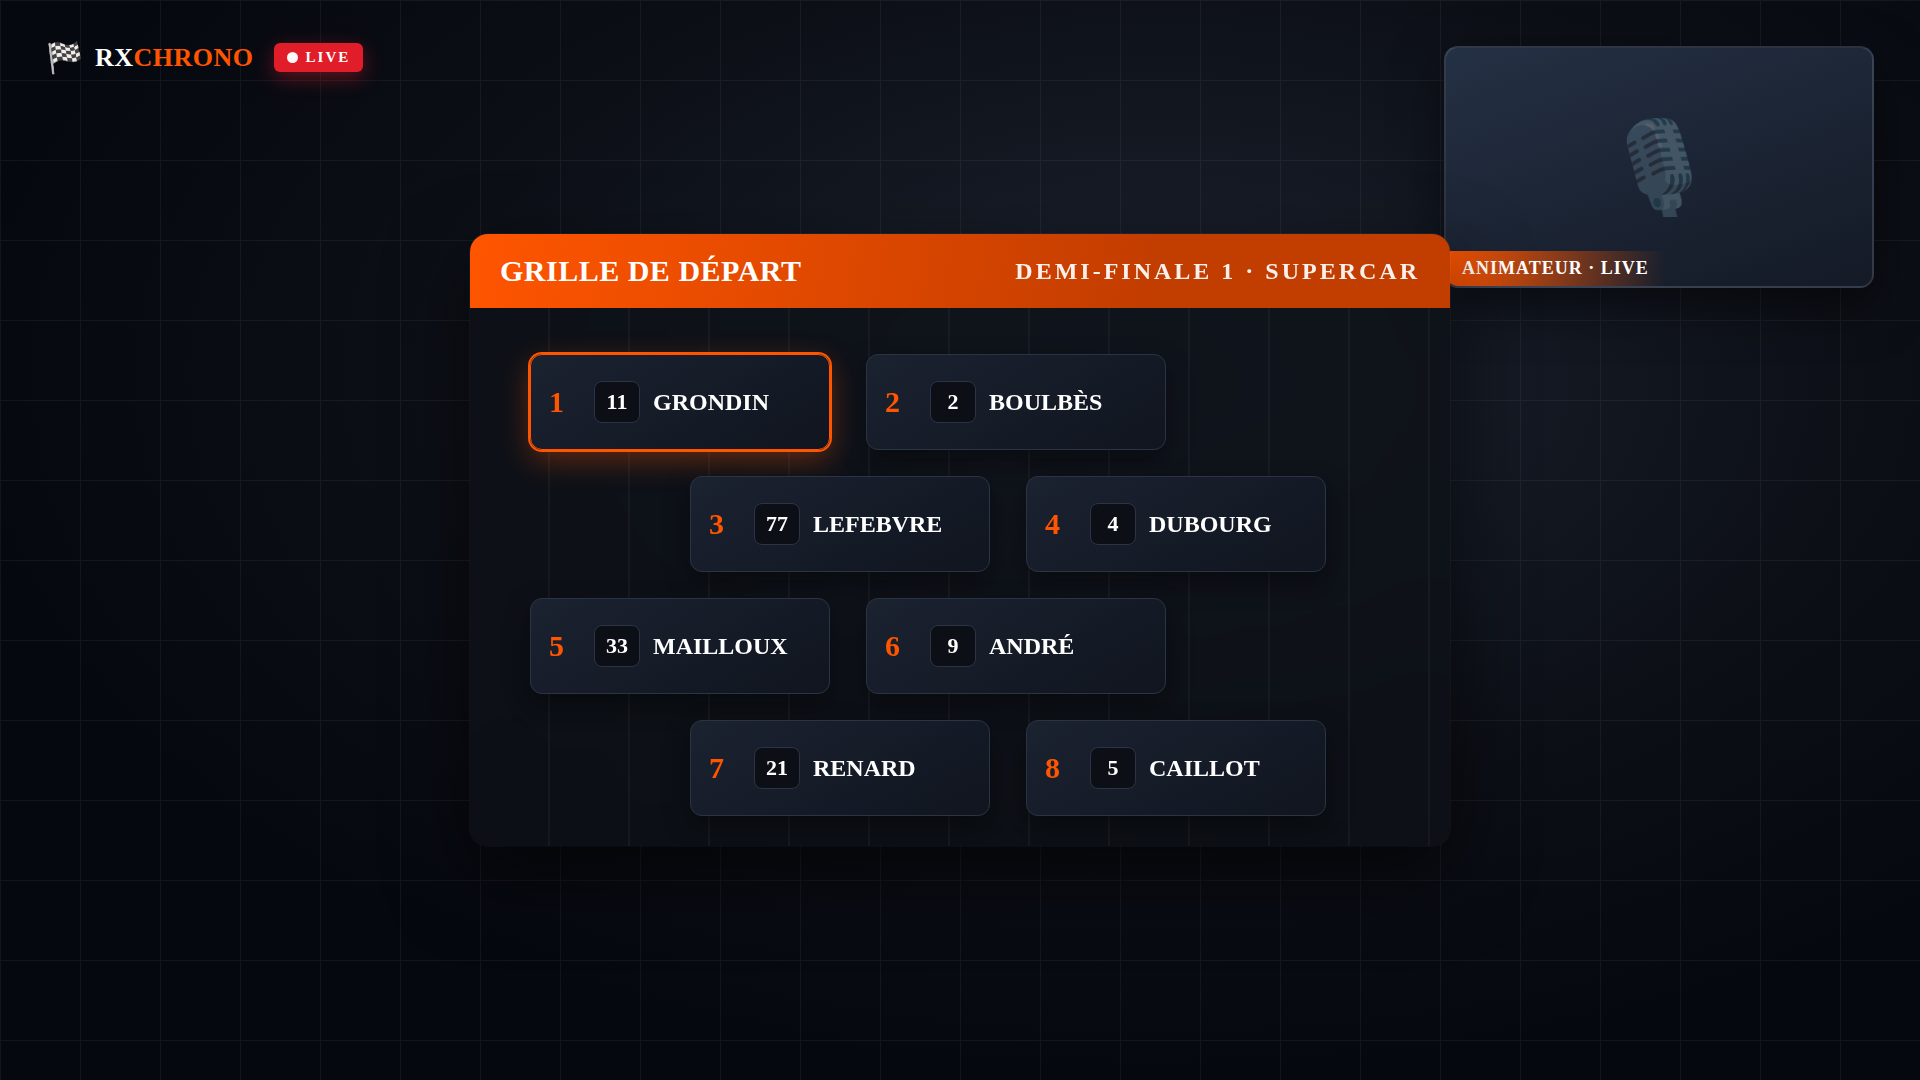
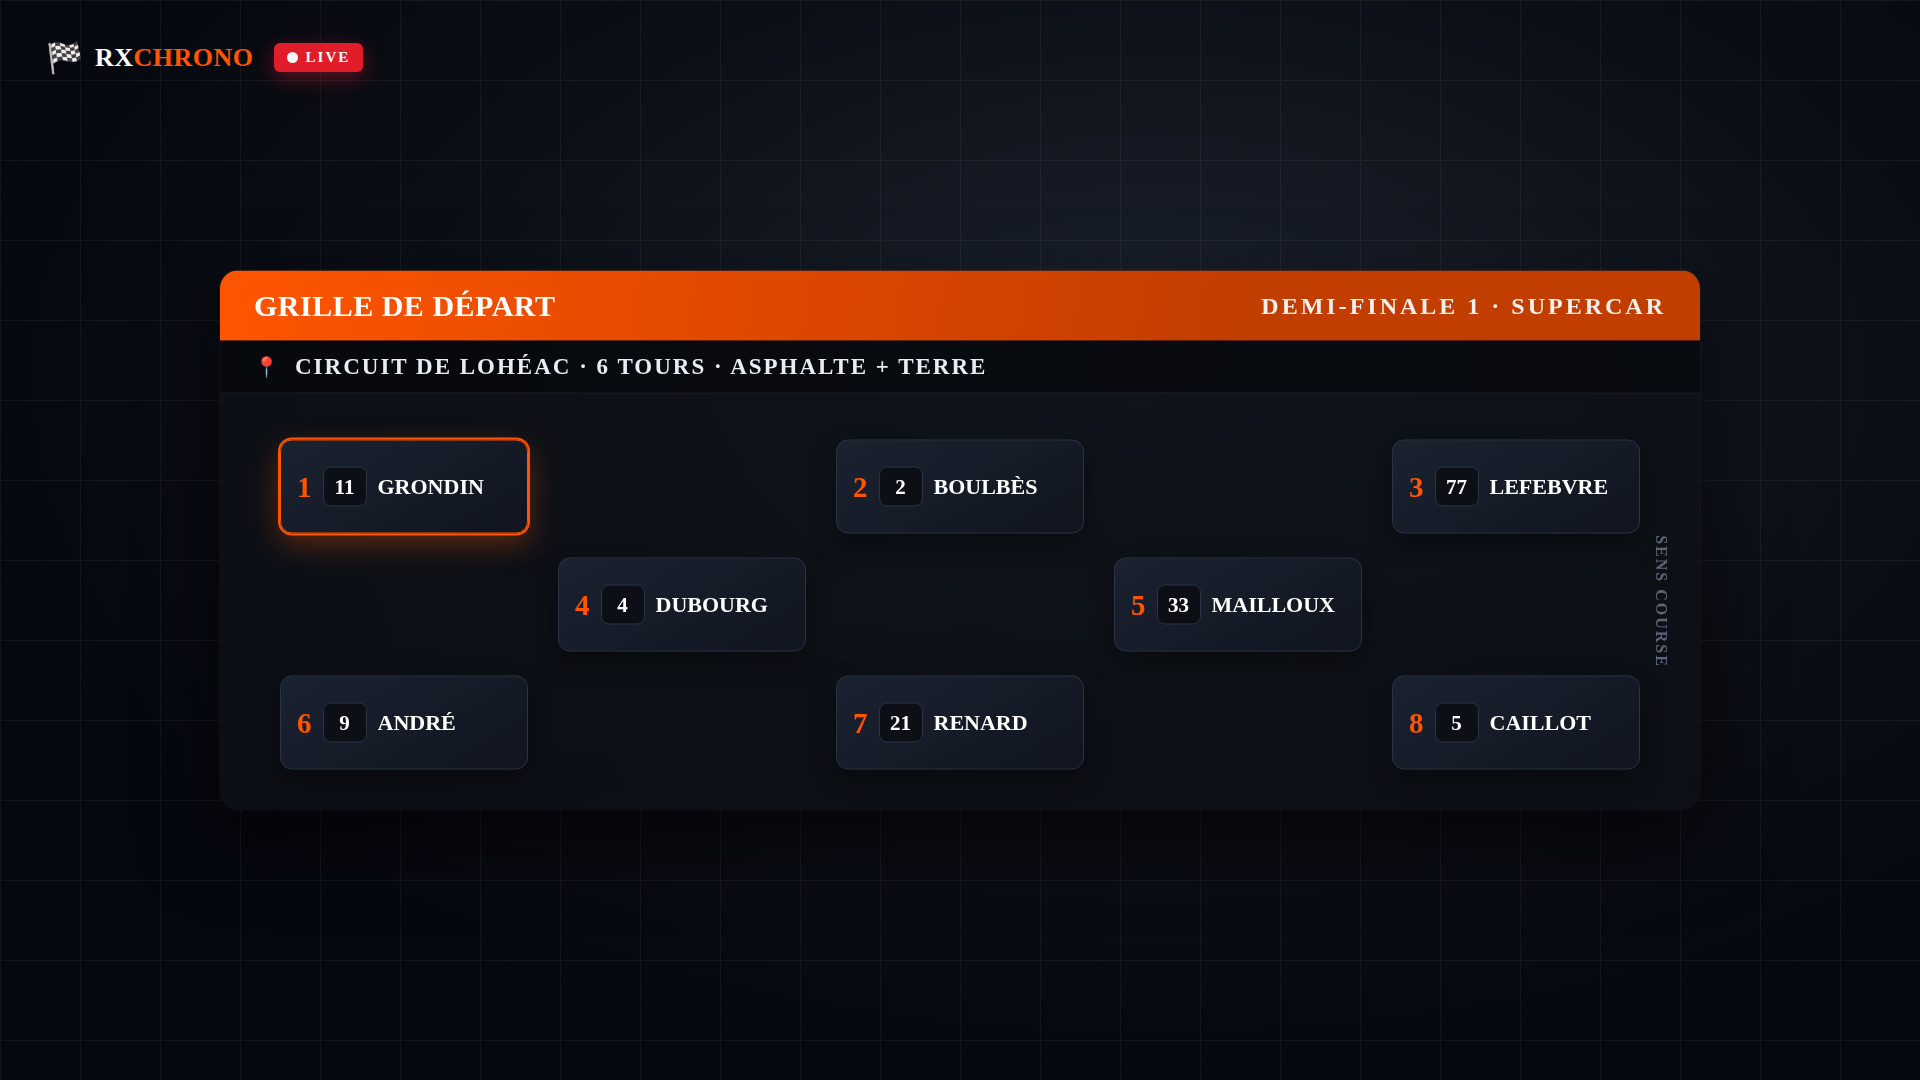
Overlays: dashboard plein data + grille fidèle au règlement + en-tête éditable
- Nouvelle scène "dashboard" plein écran sans webcam : manche en cours
  (peloton complet + écarts + meilleur tour) à gauche, classement
  intermédiaire et championnat à droite. Pensé pour afficher un maximum
  de données qui s'actualisent.
- Grille de départ : rendu fidèle de la matrice du règlement
  (championship.sessionConfig[type].gridLayout : couloirs x rangs, quinconce).
- Bandeau texte d'en-tête éditable (infos circuit) destiné à être piloté
  via /control.
- Suppression de la webcam des maquettes (priorité aux données).

Claude-Session: https://claude.ai/code/session_014SMM8bCWUptTvMGxasXwe8

diff --git a/overlay/demo/showcase.html b/overlay/demo/showcase.html
@@ -102,30 +102,36 @@
     font-size:17px;letter-spacing:1px;color:#aeb8c6;text-transform:uppercase}
   .panel .foot .bl{color:var(--purple);font-weight:700}
 
-  /* ============ GRILLE DE DÉPART ============ */
+  /* ============ GRILLE DE DÉPART (matrice du règlement) ============ */
   .grid-wrap{position:absolute;left:50%;top:50%;transform:translate(-50%,-50%);
-    width:980px;background:var(--panel);backdrop-filter:blur(14px);border-radius:18px;
+    width:auto;max-width:1640px;min-width:1000px;
+    background:var(--panel);backdrop-filter:blur(14px);border-radius:18px;
     box-shadow:0 30px 80px rgba(0,0,0,.6),0 0 0 1px rgba(255,255,255,.05);overflow:hidden}
-  .grid-wrap .head{padding:22px 30px;background:linear-gradient(100deg,var(--orange),#c23d00 70%);
+  .grid-wrap .head{padding:20px 34px;background:linear-gradient(100deg,var(--orange),#c23d00 70%);
     display:flex;align-items:center;gap:16px}
   .grid-wrap .head .h-cat{font-family:'Orbitron';font-weight:900;font-size:30px;text-transform:uppercase}
   .grid-wrap .head .h-sub{margin-left:auto;font-family:'Barlow Condensed';font-weight:600;
     font-size:24px;letter-spacing:3px;text-transform:uppercase}
-  .track{padding:46px 60px 30px;position:relative}
-  .track .line{position:absolute;left:0;right:0;height:100%;top:0;
-    background:repeating-linear-gradient(90deg,transparent 0 78px,rgba(255,255,255,.04) 78px 80px)}
-  .grid-rows{display:flex;flex-direction:column;gap:26px;position:relative}
-  .g-row{display:flex;gap:36px}
-  .g-row.offset{margin-left:160px}
-  .car{width:300px;height:96px;border-radius:12px;background:linear-gradient(150deg,#1b2230,#10151f);
-    border:1px solid #2b3445;display:flex;align-items:center;gap:13px;padding:0 18px;position:relative;
+  /* bandeau texte ÉDITABLE via /control (infos circuit, etc.) */
+  .grid-info{display:flex;align-items:center;gap:14px;padding:13px 34px;background:rgba(0,0,0,.4);
+    border-bottom:1px solid var(--line);font-family:'Barlow Condensed';font-weight:600;
+    font-size:23px;letter-spacing:2px;text-transform:uppercase;color:#e7edf5}
+  .grid-info .pin{color:var(--orange);font-size:20px}
+  .track{padding:46px 60px 40px;position:relative}
+  .track .dir{position:absolute;right:30px;top:50%;transform:translateY(-50%) rotate(0deg);
+    font-family:'Orbitron';font-weight:800;font-size:16px;color:#5b6678;letter-spacing:2px;
+    writing-mode:vertical-rl}
+  .grid-matrix{display:grid;gap:24px 30px;justify-content:center;position:relative}
+  .car{height:94px;border-radius:12px;background:linear-gradient(150deg,#1b2230,#10151f);
+    border:1px solid #2b3445;display:flex;align-items:center;gap:11px;padding:0 16px;position:relative;
     box-shadow:0 10px 26px rgba(0,0,0,.4)}
-  .car .gp{font-family:'Orbitron';font-weight:800;font-size:30px;color:var(--orange);width:32px;flex:none}
-  .car .gn{display:inline-flex;align-items:center;justify-content:center;min-width:46px;height:42px;
-    padding:0 8px;border-radius:8px;background:#0c0f16;border:1px solid #2b3445;flex:none;
-    font-family:'Orbitron';font-weight:700;font-size:22px}
-  .car .gl{flex:1;min-width:0;font-family:'Barlow Condensed';font-weight:600;font-size:24px;
+  .car .gp{font-family:'Orbitron';font-weight:800;font-size:29px;color:var(--orange);flex:none}
+  .car .gn{display:inline-flex;align-items:center;justify-content:center;min-width:44px;height:40px;
+    padding:0 7px;border-radius:8px;background:#0c0f16;border:1px solid #2b3445;flex:none;
+    font-family:'Orbitron';font-weight:700;font-size:21px}
+  .car .gl{flex:1;min-width:0;font-family:'Barlow Condensed';font-weight:600;font-size:22px;
     text-transform:uppercase;line-height:1;white-space:nowrap;overflow:hidden;text-overflow:ellipsis}
+  .car.p1{border-color:var(--orange);box-shadow:0 0 0 2px var(--orange),0 10px 30px rgba(255,85,0,.35)}
   .car.p1{border-color:var(--orange);box-shadow:0 0 0 2px var(--orange),0 10px 30px rgba(255,85,0,.35)}
 
   /* ============ NEXT HEAT (bandeau bas) ============ */
@@ -166,6 +172,36 @@
     font-size:26px;letter-spacing:3px;color:#8b95a4}
   .inter .social b{color:#fff}
 
+  /* ============ DASHBOARD PLEIN ÉCRAN (max data, sans webcam) ============ */
+  .dash{position:absolute;inset:0;display:flex;flex-direction:column;background:linear-gradient(180deg,#0a0c11,#07090e)}
+  .dash-top{display:flex;align-items:center;gap:20px;height:92px;padding:0 40px;
+    background:linear-gradient(100deg,#141a24,#0a0c11);border-bottom:3px solid var(--orange)}
+  .dash-top .brand{font-family:'Orbitron';font-weight:900;font-size:30px;letter-spacing:.5px}
+  .dash-top .brand b{color:var(--orange)}
+  .dash-top .sep{width:2px;height:42px;background:var(--line)}
+  .dash-top .info{font-family:'Barlow Condensed';font-weight:600;font-size:27px;letter-spacing:2px;
+    text-transform:uppercase;color:#dbe3ee;display:flex;align-items:center;gap:13px}
+  .dash-top .info .pin{color:var(--orange);font-size:23px}
+  .dash-top .live{margin-left:auto;display:flex;align-items:center;gap:9px;background:#e11d2a;
+    padding:8px 15px;border-radius:7px;font-family:'Orbitron';font-weight:800;font-size:16px;letter-spacing:2px}
+  .dash-top .live .d{width:11px;height:11px;border-radius:50%;background:#fff;animation:blink 1.2s infinite}
+  .dash-body{flex:1;display:grid;grid-template-columns:1.22fr 1fr;gap:24px;padding:24px 40px 32px;min-height:0}
+  .dright{display:flex;flex-direction:column;gap:24px;min-height:0}
+  .dpanel{background:var(--panel);backdrop-filter:blur(14px);border-radius:14px;overflow:hidden;
+    box-shadow:0 0 0 1px rgba(255,255,255,.06);display:flex;flex-direction:column;min-height:0}
+  .dpanel .dhead{display:flex;align-items:center;gap:12px;padding:13px 22px;
+    background:linear-gradient(100deg,var(--orange),#c23d00 78%);
+    font-family:'Orbitron';font-weight:800;font-size:21px;letter-spacing:.5px;text-transform:uppercase}
+  .dpanel .dhead .d{width:10px;height:10px;border-radius:50%;background:#fff;animation:blink 1.2s infinite}
+  .dpanel .dhead .sub{margin-left:auto;font-family:'Barlow Condensed';font-weight:600;font-size:18px;
+    letter-spacing:2px;opacity:.95}
+  .dpanel .body{flex:1;overflow:hidden;display:flex;flex-direction:column}
+  .dash .row{height:auto;flex:1;min-height:0}
+  .dash .race .row{grid-template-columns:46px 64px 1fr 150px}
+  .dash .standings .row{grid-template-columns:46px 64px 1fr 92px}
+  .dash .standings .row .val{color:var(--gold)}
+  .dash .standings .row .val small{font-family:'Barlow Condensed';font-weight:500;font-size:15px;color:#8b95a4;margin-left:3px}
+
   .scene{display:none}
   .scene.on{display:block}
 </style>
@@ -177,7 +213,6 @@
   <div class="backdrop">
     <div class="bd-grid"></div>
     <div class="bd-video"><div class="play">▶</div><div id="bdLabel">REPLAY / VIDÉO</div></div>
-    <div class="cam"><div class="face">🎙</div><div class="who">ANIMATEUR · LIVE</div></div>
   </div>
 
   <!-- BRAND BUG -->
@@ -211,11 +246,12 @@
     </div>
   </div>
 
-  <!-- SCÈNE : GRILLE DE DÉPART -->
+  <!-- SCÈNE : GRILLE DE DÉPART (matrice du règlement) -->
   <div class="scene" id="scene-grid">
     <div class="grid-wrap">
       <div class="head"><span class="h-cat">Grille de départ</span><span class="h-sub">Demi-finale 1 · Supercar</span></div>
-      <div class="track"><div class="line"></div><div class="grid-rows" id="gridRows"></div></div>
+      <div class="grid-info"><span class="pin">📍</span><span id="gridInfo">CIRCUIT DE LOHÉAC · 6 TOURS · ASPHALTE + TERRE</span></div>
+      <div class="track"><div class="dir">SENS COURSE</div><div class="grid-matrix" id="gridMatrix"></div></div>
     </div>
   </div>
 
@@ -225,6 +261,35 @@
       <div class="lower-inner">
         <div class="badge"><span class="k">À SUIVRE</span><span class="v">Série 3 · Super1600</span></div>
         <div class="list" id="nextList"></div>
+      </div>
+    </div>
+  </div>
+
+  <!-- SCÈNE : DASHBOARD PLEIN ÉCRAN (max data) -->
+  <div class="scene" id="scene-dash">
+    <div class="dash">
+      <div class="dash-top">
+        <span class="brand">RX<b>CHRONO</b></span>
+        <span class="sep"></span>
+        <!-- texte ÉDITABLE via /control -->
+        <span class="info"><span class="pin">📍</span><span id="dashInfo">CIRCUIT DE LOHÉAC · DEMI-FINALE 1 · ASPHALTE + TERRE</span></span>
+        <span class="live"><span class="d"></span>LIVE</span>
+      </div>
+      <div class="dash-body">
+        <div class="dpanel race">
+          <div class="dhead"><span class="d"></span>Manche en cours<span class="sub">Supercar · Manche 2</span></div>
+          <div class="body" id="dashRace"></div>
+        </div>
+        <div class="dright">
+          <div class="dpanel standings">
+            <div class="dhead">Classement intermédiaire<span class="sub">après M2</span></div>
+            <div class="body" id="dashInterim"></div>
+          </div>
+          <div class="dpanel standings">
+            <div class="dhead">Championnat<span class="sub">Supercar · 2026</span></div>
+            <div class="body" id="dashChamp"></div>
+          </div>
+        </div>
       </div>
     </div>
   </div>
@@ -263,12 +328,15 @@
     {pos:5, num:33, name:'Mailloux', pts:198},
     {pos:6, num:9,  name:'André',    pts:187},
   ];
-  const grid = [
-    {gp:1,num:11,name:'Grondin',lead:true},{gp:2,num:2,name:'Boulbès'},
-    {gp:3,num:77,name:'Lefebvre'},{gp:4,num:4,name:'Dubourg'},
-    {gp:5,num:33,name:'Mailloux'},{gp:6,num:9,name:'André'},
-    {gp:7,num:21,name:'Renard'},{gp:8,num:5,name:'Caillot'},
-  ];
+  // Grille = matrice EXACTE du règlement (championship.sessionConfig[type].gridLayout)
+  // positions['rang-couloir'] = place. Ici la DF par défaut : 3-2-3 en quinconce.
+  const gridLayout = { lanes:5, rows:3, positions:{
+    '0-0':1,'0-2':2,'0-4':3, '1-1':4,'1-3':5, '2-0':6,'2-2':7,'2-4':8 } };
+  // Occupants : place de grille -> pilote (issu des qualifs/standings)
+  const gridOcc = {
+    1:{num:11,name:'Grondin'}, 2:{num:2,name:'Boulbès'}, 3:{num:77,name:'Lefebvre'},
+    4:{num:4,name:'Dubourg'},  5:{num:33,name:'Mailloux'},6:{num:9,name:'André'},
+    7:{num:21,name:'Renard'},  8:{num:5,name:'Caillot'} };
   const next = [
     {num:14,name:'Morel',pp:'P1'},{num:8,name:'Picard',pp:'P2'},
     {num:23,name:'Fauvel',pp:'P3'},{num:6,name:'Lemoine',pp:'P4'},
@@ -287,28 +355,56 @@
     <span class="num">${r.num}</span>
     <span class="name">${r.name}</span>
     <span class="val">${r.pts}<small>pts</small></span></div>`;
-  const carCell = c => `<div class="car ${c.lead?'p1':''}">
-    <span class="gp">${c.gp}</span><span class="gn">${c.num}</span><span class="gl">${c.name}</span></div>`;
   const chip = c => `<div class="chip"><span class="n">${c.num}</span>
     <span class="nm">${c.name}</span><span class="pp">${c.pp}</span></div>`;
 
   document.getElementById('raceRows').innerHTML = race.map(raceRow).join('');
   document.getElementById('stRows').innerHTML   = champ.map(stRow).join('');
-  // grille staggered (2 par rangée, décalée)
-  let gh='';
-  for(let i=0;i<grid.length;i+=2){
-    const off = (i/2)%2===1 ? 'offset':'';
-    gh += `<div class="g-row ${off}">${carCell(grid[i])}${grid[i+1]?carCell(grid[i+1]):''}</div>`;
-  }
-  document.getElementById('gridRows').innerHTML = gh;
   document.getElementById('nextList').innerHTML = next.map(chip).join('');
 
+  // GRILLE : rendu fidèle de la matrice du règlement (couloirs x rangs)
+  const gm = document.getElementById('gridMatrix');
+  if (gm) {
+    gm.style.gridTemplateColumns = `repeat(${gridLayout.lanes}, 248px)`;
+    let cells = '';
+    for (let r = 0; r < gridLayout.rows; r++) {
+      for (let c = 0; c < gridLayout.lanes; c++) {
+        const p = gridLayout.positions[r + '-' + c];
+        if (p && gridOcc[p]) cells += `<div class="car ${p===1?'p1':''}" style="grid-column:${c+1};grid-row:${r+1}">
+          <span class="gp">${p}</span><span class="gn">${gridOcc[p].num}</span>
+          <span class="gl">${gridOcc[p].name}</span></div>`;
+      }
+    }
+    gm.innerHTML = cells;
+  }
+
+  // ---- DASHBOARD : données plus complètes (max data) ----
+  const raceFull = [
+    {pos:1,num:11,name:'Grondin',val:'0:41.892',lead:true},{pos:2,num:2,name:'Boulbès',val:'+0.512'},
+    {pos:3,num:77,name:'Lefebvre',val:'+0.880',best:true},{pos:4,num:4,name:'Dubourg',val:'+1.337'},
+    {pos:5,num:33,name:'Mailloux',val:'+2.011'},{pos:6,num:9,name:'André',val:'+2.654'},
+    {pos:7,num:21,name:'Renard',val:'+3.118'},{pos:8,num:5,name:'Caillot',val:'+3.540'},
+    {pos:9,num:14,name:'Morel',val:'+4.002'},{pos:10,num:8,name:'Picard',val:'+5.219'},
+  ];
+  const interim = [
+    {pos:1,num:11,name:'Grondin',pts:96,lead:true},{pos:2,num:2,name:'Boulbès',pts:91},
+    {pos:3,num:77,name:'Lefebvre',pts:86},{pos:4,num:4,name:'Dubourg',pts:80},
+    {pos:5,num:33,name:'Mailloux',pts:74},{pos:6,num:9,name:'André',pts:69},
+    {pos:7,num:21,name:'Renard',pts:63},{pos:8,num:5,name:'Caillot',pts:58},{pos:9,num:14,name:'Morel',pts:52},
+  ];
+  const champ8 = champ.concat([{pos:7,num:21,name:'Renard',pts:165},{pos:8,num:5,name:'Caillot',pts:150}]);
+  document.getElementById('dashRace').innerHTML    = raceFull.map(raceRow).join('');
+  document.getElementById('dashInterim').innerHTML = interim.map(stRow).join('');
+  document.getElementById('dashChamp').innerHTML   = champ8.map(stRow).join('');
+
   // sélection de la scène via ?scene=
-  const scene = new URLSearchParams(location.search).get('scene') || 'race';
+  const scene = new URLSearchParams(location.search).get('scene') || 'dash';
   document.getElementById('scene-'+scene)?.classList.add('on');
-  // l'intermission masque le fond "vidéo"
+  // les scènes plein écran masquent le faux fond + le bug logo
   if(scene==='intermission'){document.querySelector('.backdrop').style.opacity=.25;
     document.querySelector('.bug .live').style.display='none';}
+  if(scene==='dash'){document.querySelector('.backdrop').style.display='none';
+    document.querySelector('.bug').style.display='none';}
 </script>
 </body>
 </html>
